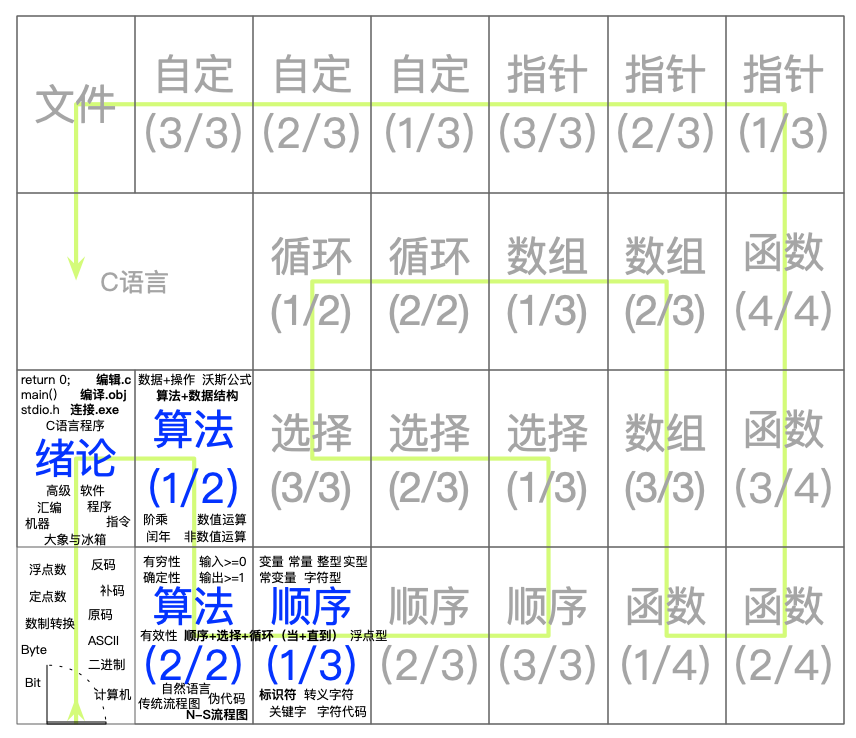
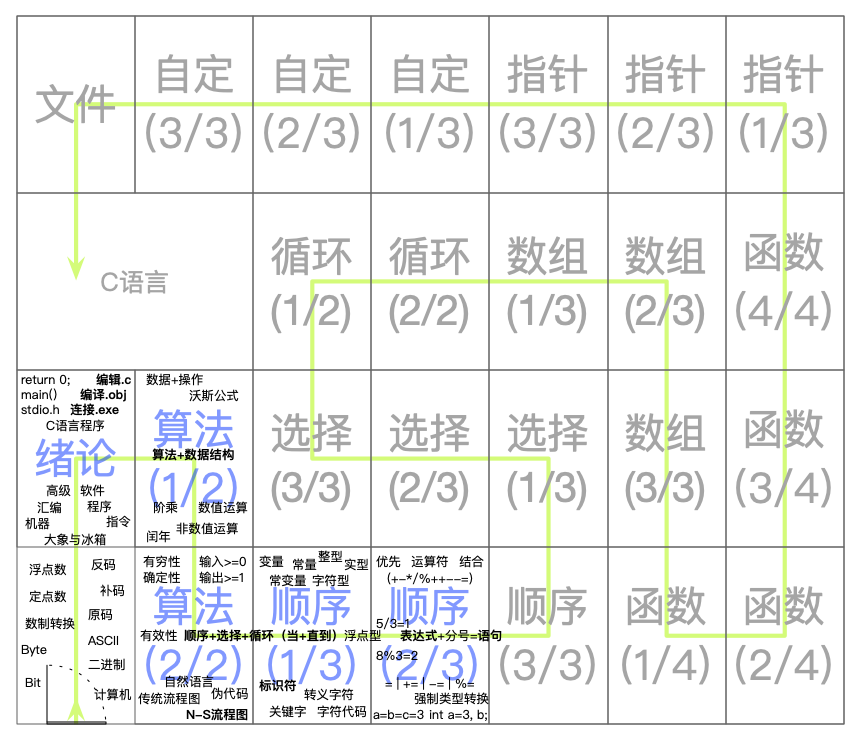
20200225 coursediary

diff --git a/_posts/2020-02-07-C-Programming.md b/_posts/2020-02-07-C-Programming.md
@@ -96,6 +96,7 @@ A: 可由传统框线流程图转换而来：
    1. 将带箭头的流程线去除
    2. 将需合并的处理框进行合并
    3. 将需拆解的处理框进行拆解
+
 ![A瓶红酒与B瓶白酒互换](../assets/img/course/NSDiagram-1.png)
 2. 框变矩形框
    1. 圆角矩形框可去除
@@ -107,10 +108,12 @@ A: 可由传统框线流程图转换而来：
          1. 菱形框变成一个拐弯矩形，与循环结构的处理矩形框组合成一个矩形
             1. 如果是“当型”循环结构，拐弯矩形在上方
             2. 如果是“直到型”循环结构，拐弯矩形在下方
+
 ![三个整数从小到大排序](../assets/img/course/NSDiagram-2.png)
 3. 空框补空白
    1. 菱形框变身后的左右两个三角形（Y, N），可能接下去没有处理框，需用空白框补齐
    2. 拐弯矩形的弯，要一直拐到循环结构内的所有操作命令处理完，可延伸
+
 ![求两个整数的最大公约数](../assets/img/course/NSDiagram-3.png)
 
 ### Q: 如何理解常量、变量和常变量？
@@ -120,7 +123,7 @@ A: 用程序语言解释就是：
    2. 实型常量：小数，例如100.0
    3. 字符常量：符号，如\'!\'
    4. 转义字符：计算机可识别的命令符号，如\'\n\'
-   5. 字符串常量：一串字符，如\“C Programming\”
+   5. 字符串常量：一串字符，如\"C Programming\"
    6. 符号常量：预定义符号，运行时被替换，如：
    ```c
    #include <stdio.h>
@@ -193,6 +196,43 @@ int main()
   return 0;
 }
 ```
+
+### Q: 关于自增与自减运算符？
+A：自增运算符（++）和自减运算符（--）都是单目运算符，其功能是让运算对象自增1或自减1，也即：
++ ++i和i++，都相当于 i=i+1; 也相当于 i+=1;
++ --i和i--，都相当于 i=i-1; 也相当于 i-=1;
+
+出现在运算对象的前后位置，分别意味着：
++ 运算对象（i）在后，运算符号（++）在前，如++i，则先做自增运算，再使用运算对象的值
++ 运算对象（i）在前，运算符号（++）在后，如i++，则后做自增运算，先使用运算对象的值
+
+
+### Q: <span id="Q1">强制类型转换？</span>
+A: 强制类型转换有两种形式：
++ 一种是人工干预的强制类型转换，其表达式形式为：(类型名)(表达式)，如(double)(3) = 3.000000
++ 一种是系统自动进行的自动类型转换，一般直接出现在表达式中，如5.0/3=5.0/3.0=1.666667
++ 这里面需要注意的有
+  - (类型名)(表达式)中的表达式括号表示需要转换类型的对象，如果没有括号，则只转换紧跟着的那个数
+    - (int)(3.1 + 2.9) = (int)(6) = 6
+    - (int)3.1 + 2.9 = (int)(3.1) + 2.9 = 3 + 2.9 = 5.9
+  - 取余运算符%的左右两侧只能是整数，浮点型无法通过类型转换计算出结果
+    - <span style="color:green;">有效：</span>8%3=2
+    - <span style="color:green;">有效：</span>(int)8.0%3=2
+    - <span style="color:red;">无效：</span>(int)(8.0%3)=2
++ 表达式(int)((double)9/2)-(9)%2的值是
+  - 首先，(double)9对整型常量9进行了人工干预强制类型转换，变成双精度浮点型9.0L
+  - 然后，9.0/2发生了系统自动类型转换，整型常量也被转作浮点型处理，9.0/2=9.0/2.0=4.5
+  - 再然后，(int)(4.5)对浮点值4.5进行了人工干预强制类型转换，变成整型常量4
+  - 再再然后，整型常量9对整型常量2取余，有效，结果为1
+  - 最后，4-1
++ 结果是3
+
+### Q: 给变量赋初值时的错误？
+A: 变量需先定义，后使用。
++ 可以在定义时赋值：int a=3;
++ 可以在定义后赋值：int a; a=3;
++ 不能未定义就先使用：int a=b=c=3;程序会报错
+  - 上述语句等同于int a; a=b=c=3;但因为b和c没有被定义，故不能使用。
 
 ### Q: C程序常见的错误有哪些？
 1. 输入法类
@@ -564,3 +604,16 @@ int main()
 
 课下，针对有同学表示没跟上课程内容，但又不知具体是哪里耽误了理解，特绘制如下图所示的知识点索引图，一来帮助同学加深理解，二来与同学们建立共同话语，方便问题索引，就地讨论，三来也可以帮助同学们预习复习，把所学内容串起来。
 ![C语言程序设计-知识点索引图](../assets/img/course/teachingCalendar.png)
+
+### 2020-02-25 雨课堂上课-C语言程序设计第三章顺序（2/3）
+59/61名同学签到了课程，16:05-17:40，课程2节共90分钟，中途休息5分钟。
+
+雨课堂新设长江雨课堂分中心，作为区域服务器缓解总服务器并发压力。课堂上，（1）原总服务器上提交的课后作业，未能完全同步到长江雨课堂分中心上，一度以为是小伙伴们集体罢课了。（2）新服务器增加了屏幕分享和视频直播功能，上课时久试不通，一直停留在测试计算机麦克风和摄像头上，延搁达十数分钟之久，心戚戚焉。（3）雨课堂上课前五分钟，时而加载不上PPT，时而声音减弱，时而声音全无，时而雨课堂卡住不动，还好有微信群和同学们保持通信畅通，重启雨课堂两次后，逐渐正常，声音信号仍受影响。
+
+本次课程改进有二，（1）对于练习题，增加在线编码调试结果截图，方便课后自行练习。（2）对于课后作业，进行详细讲解，有助于理解课程内容。
+
+课上，同学们学习专注度有升，课程中间通过弹幕实时反馈知识点。针对本次课程的重点内容“强制类型转换”表达了疑问，课上及时根据例题重复讲解，未免有同学课上仍不明白，相关例题已被收录至本页面[Q&A版块](#Q1)。
+
+课下，同学们学习热情见长，对着PPT中的例题和知识点很关注，提问很积极。
+
+全程雨课堂授课，统计弹幕72条，PPT中包含8次练习题互动，本次课程仅测试6次，其余，留待下次课程修改答案后练习。
